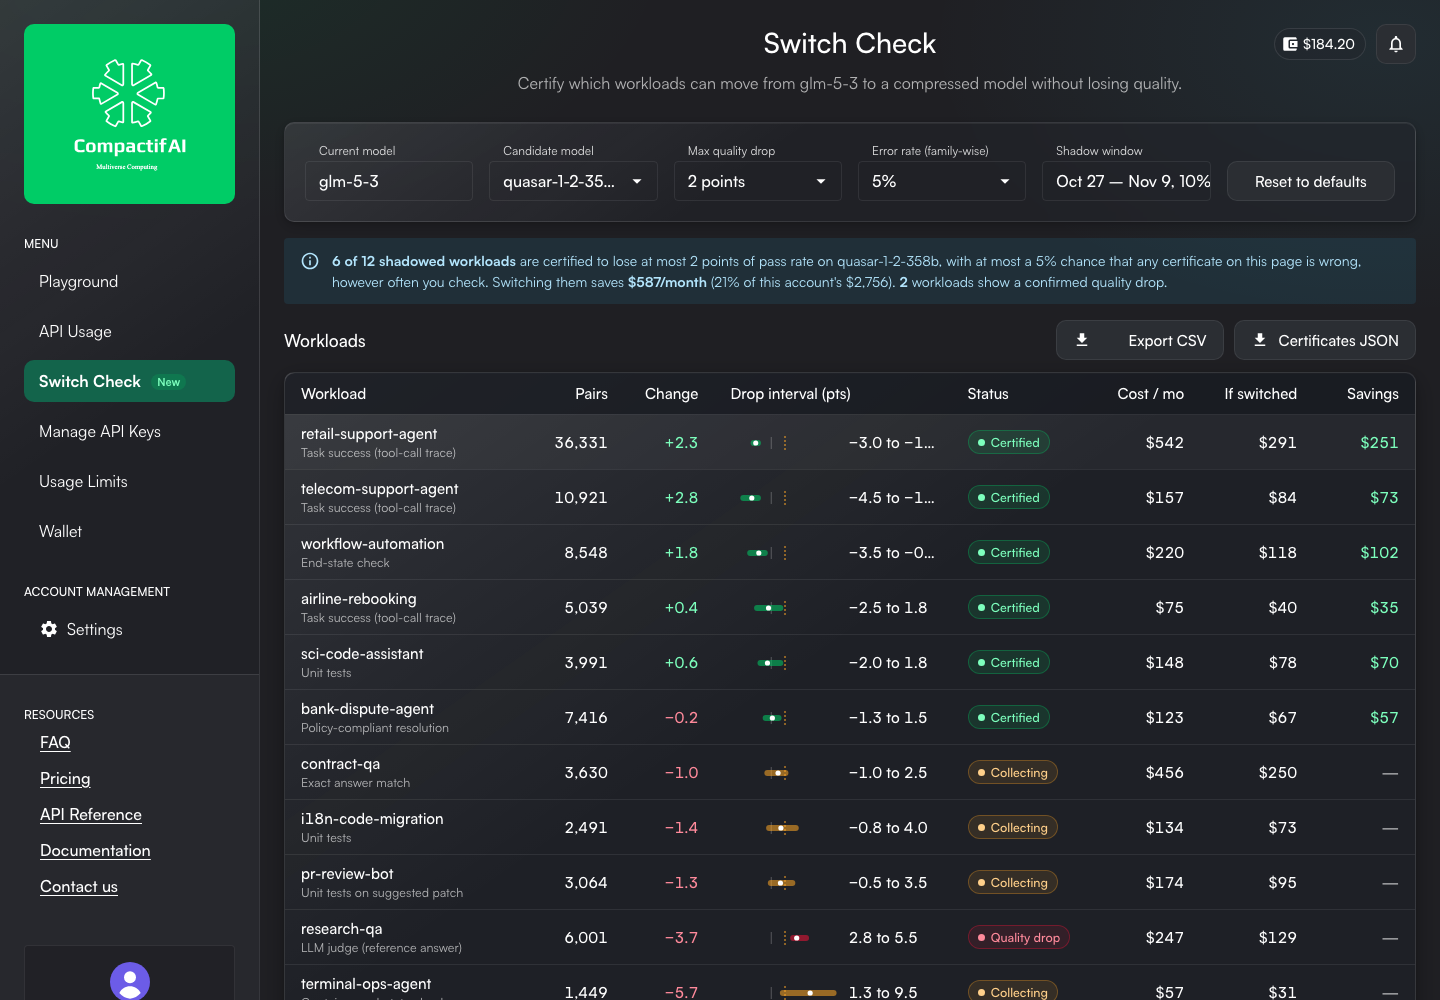
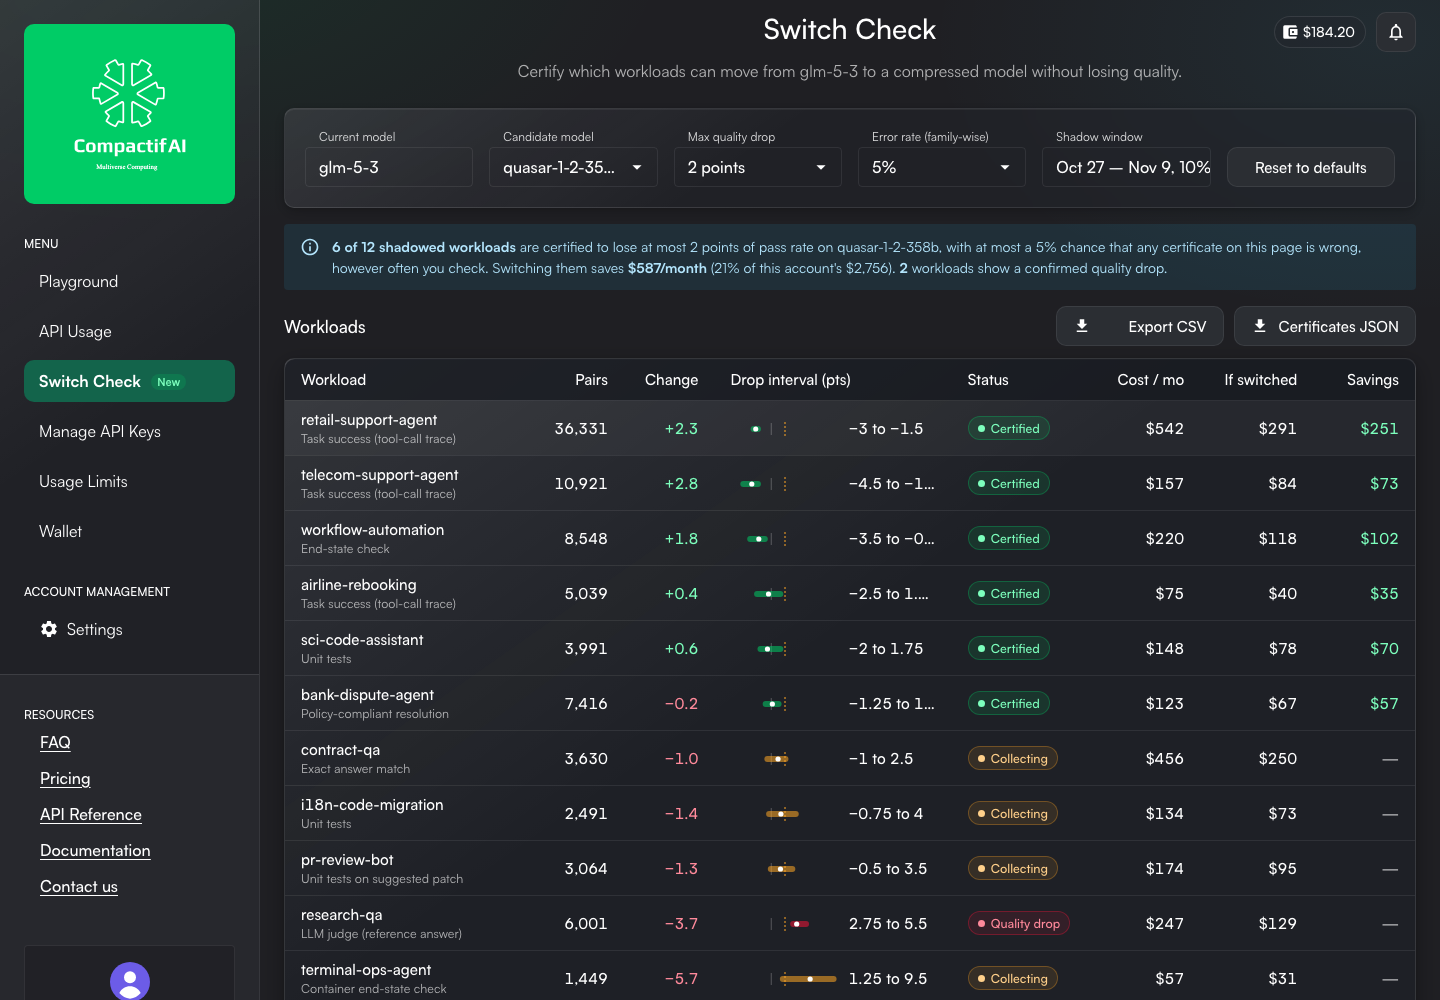
Fidelity pass: header spacing, KPI layout at 1280px, bound formatting, evidence direction

diff --git a/styles.css b/styles.css
@@ -68,15 +68,15 @@ button { font-family: inherit; }
 
 /* Main */
 .main { flex: 1; min-width: 0; min-height: 100vh; display: flex; flex-direction: column; padding: 24px; position: relative; outline: none; }
-.topright { position: absolute; right: 24px; top: 24px; display: flex; gap: 10px; align-items: center; z-index: 2; }
+.topright { position: absolute; right: 24px; top: 12px; display: flex; gap: 10px; align-items: center; z-index: 2; }
 .icon-btn { width: 40px; height: 40px; display: inline-flex; align-items: center; justify-content: center; border-radius: var(--app-button-radius); background: var(--app-button-bg); border: 1px solid var(--surface-1-border); color: var(--text-primary); cursor: pointer; }
 .icon-btn:hover { background: var(--app-button-bg-hover); }
 .chip { display: inline-flex; align-items: center; gap: 4px; height: 32px; padding: 0 10px 0 6px; border-radius: 16px; border: 1px solid var(--glass-border); background: var(--glass-subtle-bg); color: var(--text-primary); font-size: 14px; font-weight: 500; }
 .chip .ic { width: 18px; height: 18px; }
-.page-header { text-align: center; margin: 0 auto 28px; max-width: 760px; }
-.page-header h1 { font-size: 28px; font-weight: 500; margin: 0 0 10px; letter-spacing: 0; }
+.page-header { text-align: center; margin: -14px auto 26px; max-width: 760px; }
+.page-header h1 { font-size: 28px; font-weight: 500; margin: 0 0 12px; letter-spacing: 0; }
 .page-header p { margin: 0; color: var(--text-muted); font-size: 16px; }
-.crumbs { position: absolute; left: 24px; top: 34px; font-size: 14px; color: var(--text-muted); }
+.crumbs { position: absolute; left: 24px; top: 22px; font-size: 14px; color: var(--text-muted); }
 .crumbs a { color: var(--text-muted); text-decoration: none; }
 .crumbs a:hover { color: var(--text-primary); text-decoration: underline; }
 
@@ -186,8 +186,6 @@ kbd { font-family: SFMono-Regular, Menlo, monospace; font-size: 12px; padding: 1
 .dialog td:last-child { text-align: right; }
 .code { font-family: SFMono-Regular, Menlo, Monaco, Consolas, monospace; font-size: 12px; line-height: 1.5; background: var(--field-bg); border: 1px solid var(--glass-border); border-radius: 8px; padding: 12px; white-space: pre; overflow: auto; max-height: 220px; color: var(--text-primary); }
 
-@media (max-width: 1180px) {
-  .filters { grid-template-columns: repeat(3, minmax(0, 1fr)); }
-  .kpis { grid-template-columns: repeat(3, minmax(0, 1fr)); }
-}
+@media (max-width: 1380px) { .kpis { grid-template-columns: repeat(3, minmax(0, 1fr)); } }
+@media (max-width: 1180px) { .filters { grid-template-columns: repeat(3, minmax(0, 1fr)); } }
 @media (max-width: 1100px) { .two { grid-template-columns: 1fr; } }
